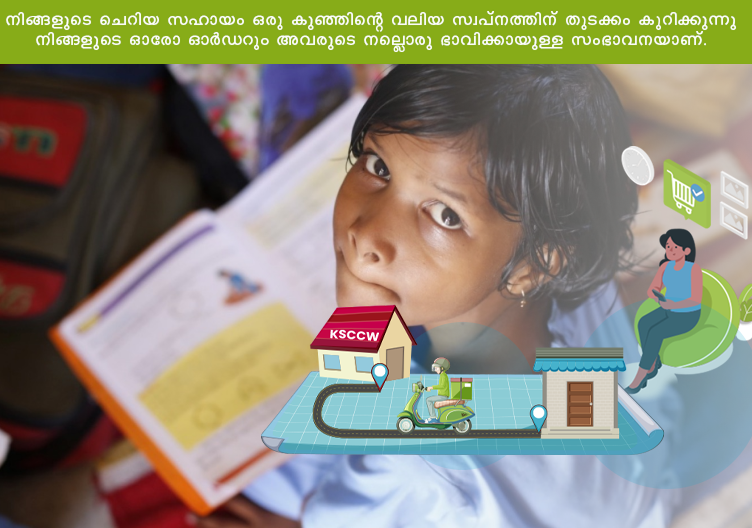
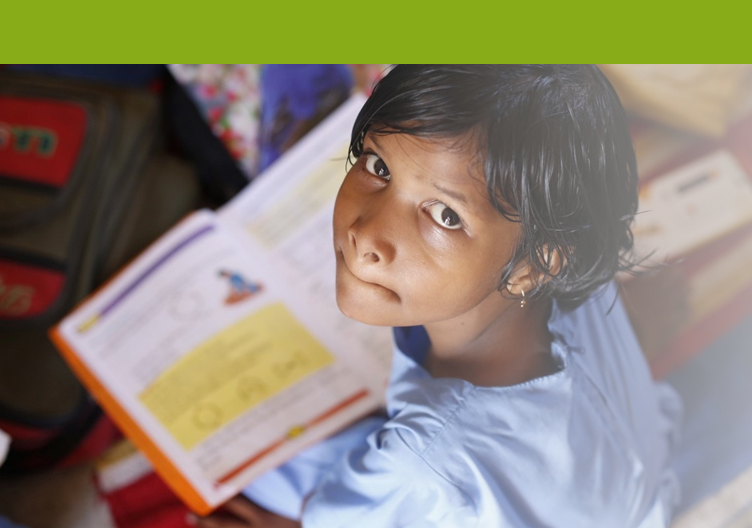
update casrolle

Changed region(s): [[0.3364, 0.2727, 1.0, 0.9394], [0.0, 0.0303, 0.9787, 0.1212]]

diff --git a/src/components/carousels/Carousel.jsx b/src/components/carousels/Carousel.jsx
@@ -1,152 +1,150 @@
-// import React, { useState, useEffect } from 'react';
-// import { motion, AnimatePresence } from 'framer-motion';
-// import carouselsOne from '../../assets/images/carousels/carouselsOne.png';
-// import carouselsTwo from '../../assets/images/carousels/carouselsOne.png';
-// import carouselsThree from '../../assets/images/carousels/carouselsOne.png';
+import React, { useState, useEffect } from "react";
+import { motion, AnimatePresence } from "framer-motion";
+import bg1 from "../../assets/images/carousels/carouselsOne1.png";
+import bg2 from "../../assets/images/carousels/carouselsOne2.png";
+import bg3 from "../../assets/images/carousels/carouselsOne3.png";
 
-// const images = [carouselsOne, carouselsTwo, carouselsThree];
+import part1 from "../../assets/images/carousels/part1.png";
+import part2 from "../../assets/images/carousels/part2.png";
 
-// const Carousel = () => {
-//   const [currentIndex, setCurrentIndex] = useState(0);
+const images = [
+  {
+    bg: bg1,
+    partOne: part1,
+    partTwo: part2,
+    text1:
+      "നിങ്ങളുടെ ചെറിയ സഹായം ഒരു കുഞ്ഞിൻ്റെ വലിയ സ്വപ്പ്നത്തിന് തുടക്കം കുറിക്കുന്നു നിങ്ങളുടെ ഓരോ ഓർഡറും അവരുടെ നല്ലൊരു ഭാവിക്കായുള്ള സംഭാവനയാണ്.",
+    text2:
+      "We guarantee that each order you place here for kerala state Council for Child Welfare will be delivered there every month on time!",
+  },
+  {
+    bg: bg2,
+    partOne: part1,
+    partTwo: part2,
+    text1:
+      "നിങ്ങളുടെ ചെറിയ സഹായം ഒരു കുഞ്ഞിൻ്റെ വലിയ സ്വപ്പ്നത്തിന് തുടക്കം കുറിക്കുന്നു നിങ്ങളുടെ ഓരോ ഓർഡറും അവരുടെ നല്ലൊരു ഭാവിക്കായുള്ള സംഭാവനയാണ്.",
+    text2:
+      "We guarantee that each order you place here for kerala state Council for Child Welfare will be delivered there every month on time!",
+  },
+  {
+    bg: bg3,
+    partOne: part1,
+    partTwo: part2,
+    text1:
+      "നിങ്ങളുടെ ചെറിയ സഹായം ഒരു കുഞ്ഞിൻ്റെ വലിയ സ്വപ്പ്നത്തിന് തുടക്കം കുറിക്കുന്നു നിങ്ങളുടെ ഓരോ ഓർഡറും അവരുടെ നല്ലൊരു ഭാവിക്കായുള്ള സംഭാവനയാണ്.",
+    text2:
+      "We guarantee that each order you place here for kerala state Council for Child Welfare will be delivered there every month on time!",
+  },
+];
 
-//   // Auto-looping every 3 seconds
-//   useEffect(() => {
-//     const interval = setInterval(() => {
-//       setCurrentIndex(prevIndex => (prevIndex + 1) % images.length);
-//     }, 3000);
+const Carousel = () => {
+  const [currentIndex, setCurrentIndex] = useState(0);
 
-//     return () => clearInterval(interval);
-//   }, []);
-
-//   return (
-//     <motion.div
-//       initial={{ opacity: 0, y: 20 }}
-//       animate={{ opacity: 1, y: 0 }}
-//       transition={{ duration: 0.6 }}
-//     >
-//       <div className="bg-white border-2 border-borderbg rounded-xl p-1 overflow-hidden">
-//         <AnimatePresence mode="wait">
-//           <motion.img
-//             key={currentIndex}
-//             src={images[currentIndex]}
-//             alt={`carousel-${currentIndex}`}
-//             className="rounded-xl w-full h-auto object-cover"
-//             initial={{ opacity: 0, x: 50 }}
-//             animate={{ opacity: 1, x: 0 }}
-//             exit={{ opacity: 0, x: -50 }}
-//             transition={{ duration: 0.5 }}
-//           />
-//         </AnimatePresence>
-//       </div>
-
-//       {/* Navigation Dots */}
-//       <div className="flex justify-center gap-2 mt-4 flex-wrap">
-//         {images.map((_, index) => (
-//           <motion.button
-//             key={index}
-//             onClick={() => setCurrentIndex(index)}
-//             whileTap={{ scale: 0.8 }}
-//             animate={{
-//               width: currentIndex === index ? 24 : 12,
-//               backgroundColor: currentIndex === index ? '#7D8611' : '#ccc',
-//               opacity: currentIndex === index ? 1 : 0.5,
-//             }}
-//             transition={{ duration: 0.3 }}
-//             className="h-3 rounded-full"
-//           />
-//         ))}
-//       </div>
-//     </motion.div>
-//   );
-// };
-
-// export default Carousel;
-import React, { useEffect, useState } from "react";
-import { AnimatePresence, motion } from "framer-motion";
-import part1 from "../../assets/images/carousels/part1.png"; // Lady
-import part2 from "../../assets/images/carousels/part2.png"; // Route
-import carouselsOne from "../../assets/images/carousels/carouselsOne.png"; // Destination BG
-import carouselsTwo from "../../assets/images/carousels/carouselsOne2.png"; // Destination BG
-import carouselsThree from "../../assets/images/carousels/carouselsOne3.png"; // Destination BG
-
-const images = [carouselsOne, carouselsTwo, carouselsThree];
-const CarouselEffect = () => {
-   const [currentIndex, setCurrentIndex] = useState(0);
-
-  // Auto-looping every 3 seconds
+  // Auto-loop
   useEffect(() => {
     const interval = setInterval(() => {
-      setCurrentIndex(prevIndex => (prevIndex + 1) % images.length);
+      setCurrentIndex((prev) => (prev + 1) % images.length);
     }, 3000);
-
     return () => clearInterval(interval);
   }, []);
+
+  const current = images[currentIndex];
+
   return (
-    <div className="relative w-full max-w-6xl mx-auto overflow-hidden rounded-xl bg-white border border-borderbg   p-1 ">
-      {/* Part 3 - Destination as Background */}
-      <div className="bg-white   rounded-xl p-1 overflow-hidden">
-          <AnimatePresence mode="wait">
-           <motion.img
+    <>
+      <motion.div
+        initial={{ opacity: 0, y: 20 }}
+        animate={{ opacity: 1, y: 0 }}
+        transition={{ duration: 0.6 }}
+        className="relative w-full max-w-6xl mx-auto overflow-hidden rounded-xl bg-white border-2 border-borderbg p-1 h-full"
+      >
+        <AnimatePresence mode="wait">
+          <motion.div
             key={currentIndex}
-            src={images[currentIndex]}
-            alt={`carousel-${currentIndex}`}
-            className="rounded-xl w-full h-auto object-cover"
-            initial={{ opacity: 0, x: 50 }}
-            animate={{ opacity: 1, x: 0 }}
-            exit={{ opacity: 0, x: -50 }}
-            transition={{ duration: 0.5 }}
-          />
+            initial={{ opacity: 0, scale: 0.95 }}
+            animate={{ opacity: 1, scale: 1 }}
+            exit={{ opacity: 0.5, scale: 1.05 }}
+            transition={{ duration: 0.8 }}
+            className="relative"
+          >
+            {/* Background Image */}
+            <img
+              src={current.bg}
+              alt="background"
+              className="w-full h-auto object-cover rounded-xl"
+            />
+
+            {/* Overlay */}
+            <div className="absolute inset-0">
+              {/* Part One (e.g. Lady) */}
+              <motion.img
+                src={current.partOne}
+                alt="part1"
+                initial={{ x: -200, opacity: 0 }}
+                animate={{ x: 0, opacity: 1 }}
+                transition={{ duration: 0.8 }}
+                className="absolute top-0 left-0 h-full object-contain z-20"
+              />
+
+              {/* Part Two (e.g. Route) */}
+              <motion.img
+                src={current.partTwo}
+                alt="part2"
+                initial={{ y: 200, opacity: 0 }}
+                animate={{ y: 0, opacity: 1 }}
+                transition={{ duration: 0.8, delay: 0.3 }}
+                className="absolute top-0 h-full object-contain z-30"
+              />
+
+              {/* Text Overlay */}
+              {/* Text 1 */}
+              {/* Malayalam Text */}
+              <motion.div
+                initial={{ opacity: 0, y: 30 }}
+                animate={{ opacity: 1, y: 0 }}
+                transition={{ delay: 0.8, duration: 0.5 }}
+                className="absolute  md:top-0 left-1/2 transform -translate-x-1/2 w-full text-center z-40 py-0  xl:py-3 xl:mt-0 nv:mt-2 lg:mt-2 md:mt-2 sm:mt-2 mt-1"
+              >
+                <p className="text-white text-[5px] xl:text-[12px] 2xl:text-[14px] nv:text-[10px] lg:text-[9.3px] md:text-[13px] sm:text-[10px] mobile:text-[6px] font-semibold leading-relaxed font-sans">
+                  {current.text1}
+                </p>
+              </motion.div>
+
+              {/* English Text */}
+              <motion.div
+                initial={{ opacity: 0, y: 30 }}
+                animate={{ opacity: 1, y: 0 }}
+                transition={{ delay: 1.2, duration: 0.5 }}
+                className="absolute top-[18%] md:top-[16%] left-1/2 transform -translate-x-1/2 w-full text-center z-40 px-4 "
+              >
+                <p className="text-[7px] xl:text-[15px] 2xl:text-[20px] nv:text-[13px] lg:text-[11.3px] md:text-[18px] sm:text-[15px] mobile:text-[9px] font-bold font-sans">
+                  {current.text2}
+                </p>
+              </motion.div>
+            </div>
+          </motion.div>
         </AnimatePresence>
+
+        {/* Dots */}
+      </motion.div>
+      <div className="flex justify-center gap-2 mt-2 pb-2">
+        {images.map((_, index) => (
+          <motion.button
+            key={index}
+            onClick={() => setCurrentIndex(index)}
+            whileTap={{ scale: 0.9 }}
+            animate={{
+              width: currentIndex === index ? 24 : 12,
+              backgroundColor: currentIndex === index ? "#7D8611" : "#ccc",
+              opacity: currentIndex === index ? 1 : 0.5,
+            }}
+            transition={{ duration: 0.3 }}
+            className="h-3 rounded-full"
+          />
+        ))}
       </div>
-
-      {/* Overlay Container */}
-      <div className="absolute inset-0">
-        {/* Part 1 - Lady */}
-        {/* <motion.img
-          src={part1}
-          alt="Lady"
-          initial={{ x: -200, opacity: 0 }}
-          animate={{ x: 0, opacity: 1 }}
-          transition={{ duration: 0.8, delay: 0 }}
-          className="absolute top-2 left-1 h-full object-contain z-20"
-        /> */}
-
-        {/* Part 2 - Route */}
-        {/* <motion.img
-          src={part2}
-          alt="Route"
-          initial={{ y: 200, opacity: 0 }}
-          animate={{ y: 0, opacity: 1 }}
-          transition={{ duration: 0.8, delay: 0.5 }}
-          className="absolute top-1 left-5  h-full object-contain z-30"
-        /> */}
-
-        {/* Text Content */}
-               {/* <motion.div
-          initial={{ opacity: 0, y: 50 }}
-          animate={{ opacity: 1, y: 0 }}
-          transition={{ delay: 1.5, duration: 0.6 }}
-          className="absolute top-[2%] left-0 w-full px-2 sm:px-4 md:px-8 text-white z-40"
-        >
-          <p className="text-[7px] xs:text-[10px] sm:text-xs md:text-sm lg:text-[10px] xl:text-[13px] mt-2 md:mt-4 lg:text-base font-semibold leading-tight sm:leading-snug md:leading-normal text-center">
-            നിങ്ങളുടെ ചെറിയ സഹായം ഒരു കുഞ്ഞിൻ്റെ വലിയ സ്വപ്പ്നത്തിന് തുടക്കം കുറിക്കുന്നു നിങ്ങളുടെ ഓരോ ഓർഡറും അവരുടെ നല്ലൊരു ഭാവിക്കായുള്ള സംഭാവനയാണ്.
-          </p>
-        </motion.div> */}
-        
-        {/* <motion.div
-          initial={{ opacity: 0, y: 50 }}
-          animate={{ opacity: 1, y: 0 }}
-          transition={{ delay: 1.5, duration: 0.6 }}
-          className="absolute top-[16%] sm:top-[17%] left-[5%] w-[90%] text-center text-black z-40"
-        >
-          <p className="text-[10px] xs:text-xs sm:text-sm md:text-[12px]  lg:text-[16px] xl:text-[20px] font-bold ">
-            We guarantee that each order you place here for Kerala State <br className="hidden xs:inline-block" /> Council for Child Welfare will be delivered there every month on time!
-          </p>
-        </motion.div> */}
-      </div>  
-      {/* dfasklj */}
-    </div>
+    </>
   );
 };
 
-export default CarouselEffect;
+export default Carousel;

diff --git a/src/components/leftContent/LeftContent.jsx b/src/components/leftContent/LeftContent.jsx
@@ -7,7 +7,7 @@ import { motion } from "framer-motion";
 
 const LeftContent = () => {
   return (
-    <div className="bg-secondbg rounded-xl p-3 py-4 border-2 border-borderbg w-full">
+    <div className="bg-secondbg rounded-xl p-3 py-4 border-2 border-borderbg w-full h-full">
       {/* Text paragraphs - Maintained exact sizing hierarchy */}
       <p className="font-malayalam font-normal sm:font-extrabold text-[10px] xs:text-[6px] sm:text-[7px] md:text-[8px] lg:text-[9px] xl:text-[10px] 2xl:text-[11px]">
         അമ്മത്തൊട്ടിൽ വഴിയും മറ്റും സാഹചര്യങ്ങളിലും ഉപേക്ഷിക്കപ്പെട്ട വളർത്താൻ
@@ -64,7 +64,7 @@ const LeftContent = () => {
               ഞങ്ങളുടെ വെബ്സൈറ്റ് സന്ദർശിക്കുക
             </p>
             <motion.p
-  className="text-textligthgree font-bold text-[10px] sm:text-[10px] md:text-[11px] lg:text-[12px] xl:text-[12px] 2xl:text-[16px] mt-[3px] xs:mt-[4px] sm:mt-[5px] md:mt-[6px] lg:mt-[7px] xl:mt-[6px] "
+  className="text-[#0020f2b9] font-bold text-[10px] sm:text-[10px] md:text-[11px] lg:text-[12px] xl:text-[12px] 2xl:text-[16px] mt-[3px] xs:mt-[4px] sm:mt-[5px] md:mt-[6px] lg:mt-[7px] xl:mt-[6px] "
   animate={{ opacity: [1, 0, 1] }}
   transition={{
     duration: 1,

diff --git a/src/pages/Home.jsx b/src/pages/Home.jsx
@@ -10,14 +10,14 @@ const Home = () => {
     <div className='bg-bg '>
         <NavBar/>
         <div className='flex flex-col lg:flex-row gap-2 p-4 px-4 lg:px-10'>
-          <div className='w-full lg:w-[55%]'>
+          <div className='w-full lg:w-[55%] '>
             <Carousel/>
           </div>
           <div className='w-full lg:w-[45%]'>
             <LeftContent/>
           </div>
         </div>
-        <div className='lg:px-10 px-4 pb-10'>
+        <div className='lg:px-10 px-4 pb-10 mt-0 md:mt-3'>
           <FooterContent/>
         </div>
         <CopyrightFooter/>
